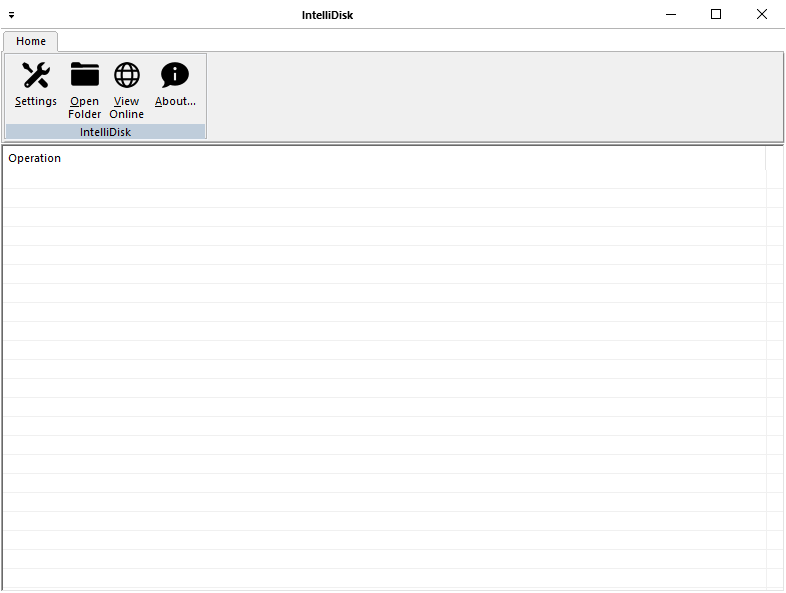
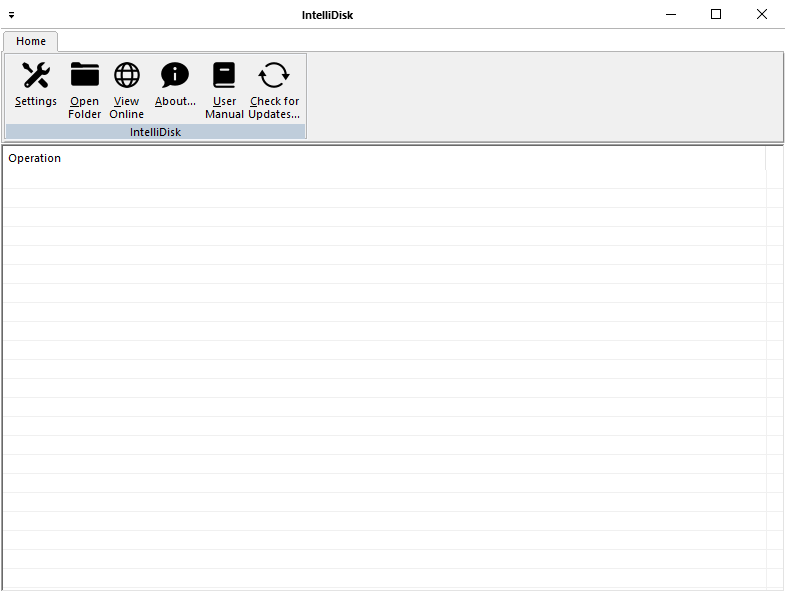
Updated documentation: IntelliDisk.html, ReleaseNotes.html, SoftwareContextRegister.html

Changed region(s): [[0.0916, 0.0911, 0.3969, 0.2428]]

diff --git a/Client/SoftwareContextRegister.html b/Client/SoftwareContextRegister.html
@@ -11,7 +11,7 @@
     <body>
         <nav class="navbar navbar-expand-lg navbar-dark bg-dark">
             <div class="container">
-                <a class="navbar-brand" href="https://www.moga.doctor/" target="_blank">IntelliDisk</a>
+                <a class="navbar-brand" href="https://www.moga.doctor/intellidisk/" target="_blank">IntelliDisk</a>
                 <button class="navbar-toggler" type="button" data-bs-toggle="collapse" data-bs-target="#navbarSupportedContent" aria-controls="navbarSupportedContent" aria-expanded="false" aria-label="Toggle navigation">
                     <span class="navbar-toggler-icon"></span>
                 </button>
@@ -41,8 +41,7 @@
                     <p>Release Name: <strong>IntelliDisk</strong><br>
                         Description: <em>IntelliDisk is an alternative Windows version to the famous Microsoft OneDrive!</em><br>
                         Outgoing License: <a href="https://www.gnu.org/licenses/gpl-3.0.html" target="_blank">GNU General Public License v3.0</a><br>
-                        Type of content: static/dynamic libraries, source code, binary<br>
-                        Release location: <a href="https://www.codeproject.com/Articles/5364705/IntelliDisk" target="_blank">https://www.codeproject.com/Articles/5364705/IntelliDisk</a></p>
+                        Type of content: static/dynamic libraries, source code, binary</p>
 
                     <p><strong>IAppSettings</strong><br>
                         Description: <em>AppSettings is a collection of freeware C++ classes to encapsulate reading and writing application configuration settings.</em> The supported output formats are:<br>
@@ -69,6 +68,13 @@
                         Version: unspecified<br>
                         Home Page: <a href="https://www.codeproject.com/Articles/4692/How-to-get-a-notification-if-change-occurs-in-a-sp" target="_blank">https://www.codeproject.com/Articles/4692/How-to-get-a-notification-if-change-occurs-in-a-sp</a><br>
                         License: <a href="https://www.codeproject.com/info/cpol10.aspx" target="_blank">Code Project Open License</a><br>
+                        Format: source code, binary</p>
+
+                    <p><strong>genUp4win</strong><br>
+                        Desciption: <em>This library is a generic updater for Windows.</em><br>
+                        Version: 2.03<br>
+                        Home Page: <a href="https://github.com/mihaimoga/genUp4win" target="_blank">https://github.com/mihaimoga/genUp4win</a><br>
+                        License: MIT<br>
                         Format: source code, binary</p>
 
                     <p><strong>CHLinkCtrl</strong><br>

diff --git a/Client/ReleaseNotes.html b/Client/ReleaseNotes.html
@@ -11,7 +11,7 @@
     <body>
         <nav class="navbar navbar-expand-lg navbar-dark bg-dark">
             <div class="container">
-                <a class="navbar-brand" href="https://www.moga.doctor/#intellidisk-top" target="_blank">IntelliDisk</a>
+                <a class="navbar-brand" href="https://www.moga.doctor/intellidisk/" target="_blank">IntelliDisk</a>
                 <button class="navbar-toggler" type="button" data-bs-toggle="collapse" data-bs-target="#navbarSupportedContent" aria-controls="navbarSupportedContent" aria-expanded="false" aria-label="Toggle navigation">
                     <span class="navbar-toggler-icon"></span>
                 </button>
@@ -41,7 +41,6 @@
                         <p><strong>IntelliDisk</strong> is an alternative Windows version to the famous Microsoft OneDrive!</p>
                         <p>Download: <a href="https://www.moga.doctor/freeware/IntelliDiskSetup.msi">https://www.moga.doctor/freeware/IntelliDiskSetup.msi</a></p>
                         <p>GitHub repo: <a href="https://github.com/mihaimoga/IntelliDisk" target="_blank">https://github.com/mihaimoga/IntelliDisk</a></p>
-                        <p>Article: <a href="https://www.codeproject.com/Articles/5364705/IntelliDisk" target="_blank">https://www.codeproject.com/Articles/5364705/IntelliDisk</a></p>
                     <h2>Social Media</h2>
                     <p>Please feel free to contact me if you need any further information.</p>
                     <ul>
@@ -81,9 +80,9 @@
                         </li>
                         <li>Version 1.07 (January 26<sup>th</sup>, 2024): Added ReleaseNotes.html and SoftwareContentRegister.html to GitHub repo.</li>
                         <li>Version 1.08 (February 21<sup>st</sup>, 2024): Switched MFC application' theme back to native Windows.</li>
-                        <li>Version 1.09 (TBD):
+                        <li>Version 1.09 (October 27<sup>th</sup>, 2024):
                             <ul>
-                                <li>Implemented <a href="https://www.moga.doctor/freeware/IntelliDisk.html" target="_blank">User Manual</a> option into Help menu.</li>
+                                <li>Implemented <a href="https://www.moga.doctor/intellidisk/" target="_blank">User Manual</a> option into Help menu.</li>
                                 <li>Implemented <strong>Check for updates...</strong> option into Help menu.</li>
                                 <li>Fixed limitation to <code>_MAX_PATH</code> for long path names.</li>
                             </ul>

diff --git a/IntelliDisk.html b/IntelliDisk.html
@@ -3,6 +3,7 @@
     <head>
         <meta charset="utf-8">
         <title>IntelliDisk - Help</title>
+		<meta http-equiv="Refresh" content="5; url=https://www.moga.doctor/intellidisk/">
         <link rel="icon" type="image/png" href="https://www.moga.doctor/romania-flag-square-icon-256.png">
         <link rel="apple-touch-icon" href="https://www.moga.doctor/romania-flag-square-icon-256.png">
         <meta name="viewport" content="width=device-width, initial-scale=1">
@@ -11,7 +12,7 @@
     <body>
         <nav class="navbar navbar-expand-lg navbar-dark bg-dark">
             <div class="container">
-                <a class="navbar-brand" href="https://www.moga.doctor/#intellidisk-top" target="_blank">IntelliDisk</a>
+                <a class="navbar-brand" href="https://www.moga.doctor/intellidisk/" target="_blank">IntelliDisk</a>
                 <button class="navbar-toggler" type="button" data-bs-toggle="collapse" data-bs-target="#navbarSupportedContent" aria-controls="navbarSupportedContent" aria-expanded="false" aria-label="Toggle navigation">
                     <span class="navbar-toggler-icon"></span>
                 </button>

diff --git a/Client/pch.h b/Client/pch.h
@@ -27,6 +27,6 @@ IntelliDisk. If not, see <http://www.opensource.org/licenses/gpl-3.0.html>*/
 
 #define INSTALLER_URL _T("https://www.moga.doctor/freeware/IntelliDiskSetup.msi")
 #define APPLICATION_URL _T("https://www.moga.doctor/freeware/IntelliDisk.xml")
-#define USER_MANUAL_URL _T("https://www.moga.doctor/freeware/IntelliDisk.html")
+#define USER_MANUAL_URL _T("https://www.moga.doctor/intellidisk/")
 
 #endif //PCH_H
